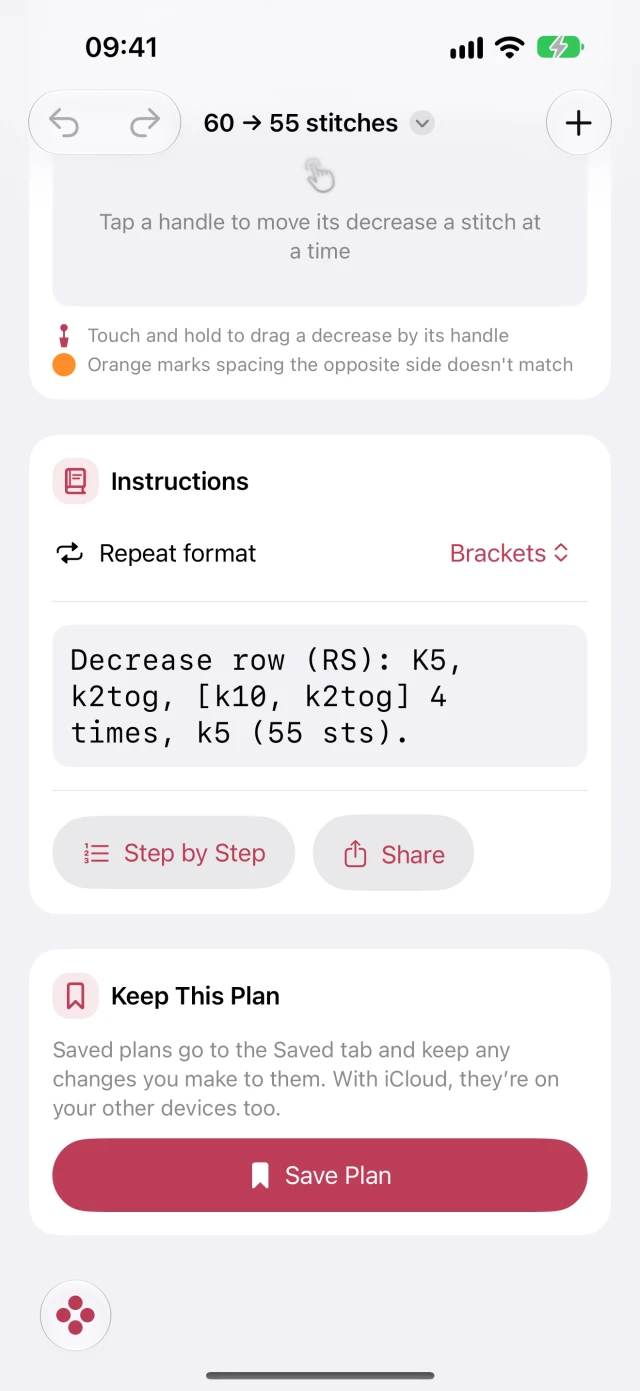
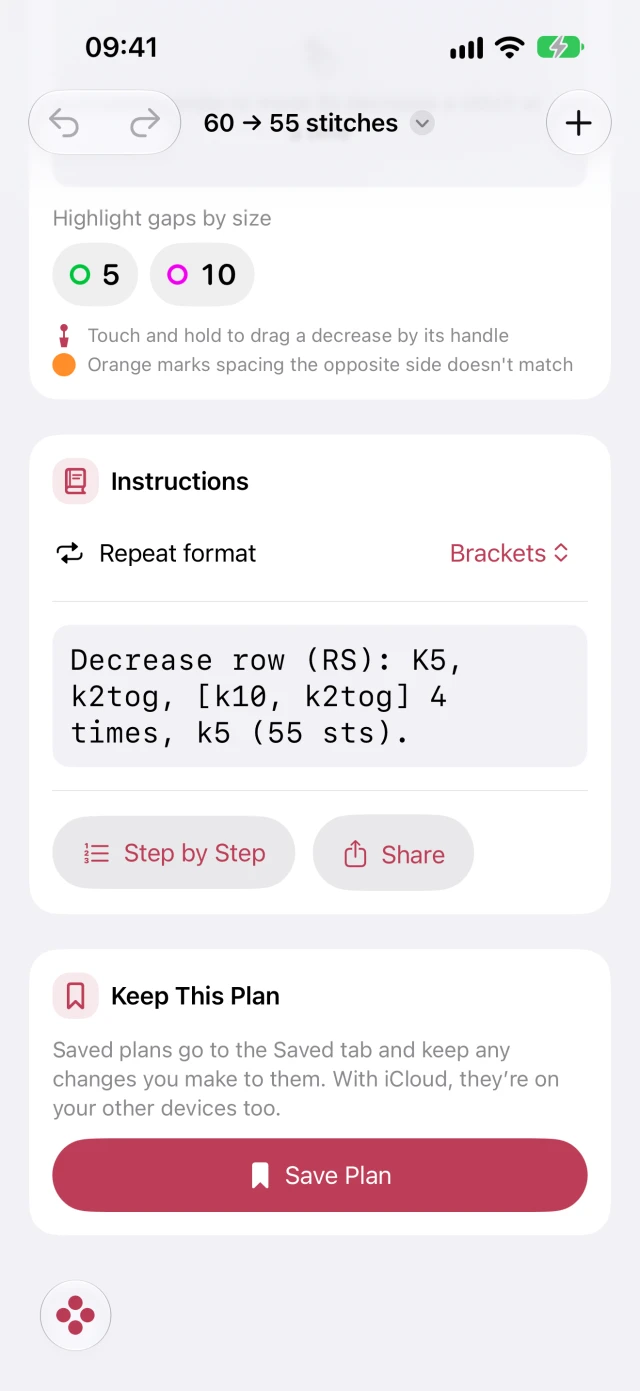
feat(site): describe gap-size highlights for stitches 27b8802
Stitches commit 27b8802 added a "Highlight gaps by size" row of pills
under Rebalance Spacing. Each pill puts a coloured dot on every gap of
that size. The "Shape it" copy and the rearrange alt text now mention
the pills. All six screenshots were re-encoded from the new raw
captures, because every capture had changed.

The commits since e9b2542 moved the cited ASO.md and
ReleaseVerification.md lines, so the README evidence table now points
at the new line numbers and cites the new pill views. The README also
records the 28 and 29 September content and site checks.

Changed region(s): [[0.0938, 0.0927, 0.8438, 0.2164], [0.3125, 0.9892, 0.6875, 1.0]]

diff --git a/docs/index.html b/docs/index.html
@@ -168,7 +168,9 @@
               ones that have to stay put, and rebalance to space the rest evenly
               around them. Orange shows where one side no longer mirrors the
               other. The written row changes to match, and you can undo
-              anything.
+              anything. To see where the 7s and the 8s fell, tap a gap size
+              under the diagram and every gap that size gets a dot in its own
+              colour.
             </p>
           </div>
           <div class="feature-shot">
@@ -177,7 +179,7 @@
                 src="/shot-rearrange.webp"
                 width="640"
                 height="1391"
-                alt="The same decrease row after the first decrease was stepped two stitches along. The panel under the diagram shows Decrease 1 with 7 stitches before and 8 after, with Lock and step buttons, orange marks the spacing that no longer mirrors, and a Rebalance Spacing button sits below."
+                alt="The same decrease row after the first decrease was stepped two stitches along. The panel under the diagram shows Decrease 1 with 7 stitches before and 8 after, with Lock and step buttons, orange marks the spacing that no longer mirrors, and below sit a Rebalance Spacing button and pills to highlight the gaps of 5, 7, 8 or 10 stitches."
                 loading="lazy"
                 decoding="async"
               />

diff --git a/index.html b/index.html
@@ -168,7 +168,9 @@
               ones that have to stay put, and rebalance to space the rest evenly
               around them. Orange shows where one side no longer mirrors the
               other. The written row changes to match, and you can undo
-              anything.
+              anything. To see where the 7s and the 8s fell, tap a gap size
+              under the diagram and every gap that size gets a dot in its own
+              colour.
             </p>
           </div>
           <div class="feature-shot">
@@ -177,7 +179,7 @@
                 src="/shot-rearrange.webp"
                 width="640"
                 height="1391"
-                alt="The same decrease row after the first decrease was stepped two stitches along. The panel under the diagram shows Decrease 1 with 7 stitches before and 8 after, with Lock and step buttons, orange marks the spacing that no longer mirrors, and a Rebalance Spacing button sits below."
+                alt="The same decrease row after the first decrease was stepped two stitches along. The panel under the diagram shows Decrease 1 with 7 stitches before and 8 after, with Lock and step buttons, orange marks the spacing that no longer mirrors, and below sit a Rebalance Spacing button and pills to highlight the gaps of 5, 7, 8 or 10 stitches."
                 loading="lazy"
                 decoding="async"
               />

diff --git a/README.md b/README.md
@@ -15,31 +15,32 @@ The social preview image is generated from the site icon and headline with `sh s
 
 ## Content checks
 
-The copy and privacy policy were checked against the Stitches app on 23 September 2026, and the copy again on 24, 25 and 27 September 2026. The 25 September check followed the app changes in `../Stitches` commits `5369bad` to `a3bdd7c`: gap dragging was removed, points can be locked and the rest rebalanced, spacing that doesn't mirror is marked orange, a selection panel replaced the counts drawn inside the ring, and saved plans open straight in the planner. The 27 September check followed commits `a4fa7d4` to `e9b2542`. None of them made a claim on the page wrong. They added "Shaping" and "Spacing" card headings, a result row under the counts, marks of one width and the "Step by Step" casing, which the new screenshots show. They also added VoiceOver announcements of count errors, now mentioned in the accessibility card. The changes moved the cited lines, so every row of the table below was re-read against `e9b2542`. The round diagram can be turned so the marker sits top, bottom, left or right, but that is a display preference only (`../Stitches/Stitches/Views/Planner/Track/PlanTrackView.swift:42-44`) and does not change the written round, so the page does not claim you can move the beginning of the round. Paths below are relative to the site directory.
+The copy and privacy policy were checked against the Stitches app on 23 September 2026, and the copy again on 24, 25, 27, 28 and 29 September 2026. The 25 September check followed the app changes in `../Stitches` commits `5369bad` to `a3bdd7c`: gap dragging was removed, points can be locked and the rest rebalanced, spacing that doesn't mirror is marked orange, a selection panel replaced the counts drawn inside the ring, and saved plans open straight in the planner. The 27 September check followed commits `a4fa7d4` to `e9b2542`. None of them made a claim on the page wrong. They added "Shaping" and "Spacing" card headings, a result row under the counts, marks of one width and the "Step by Step" casing, which the new screenshots show. They also added VoiceOver announcements of count errors, now mentioned in the accessibility card. The changes moved the cited lines, so every row of the table below was re-read against `e9b2542`. The 28 September check followed commits `9e6bc89` and `569db06`, which only reworded the App Store description and screenshot captions in `../Stitches/ASO.md` and `../Stitches/scripts/ScreenshotAutomation/`. No app source or raw capture changed, and the reworded description makes no claim the page contradicts. The rewrite moved the cited `ASO.md` lines, so those rows were updated. The 29 September check followed commits `85c2e38` to `27b8802`. The first three only changed `TODO.md`, the CloudKit release notes and tests. `27b8802` added a "Highlight gaps by size" row of pills under Rebalance Spacing: turning one on puts a coloured dot on every gap of that size, and the gap keeps its grey or orange fill. The "Shape it" copy now mentions it. The highlights are a way of looking at the plan and are not saved with it (`../Stitches/Stitches/Views/Planner/Track/PlanTrackView.swift:48-51`), so the page doesn't say they are. These commits moved the cited `ASO.md` and `ReleaseVerification.md` lines, so those rows were updated. Of the other cited files only `PlanTrackView.swift` changed, and its cited lines 42-44 hadn't moved. The round diagram can be turned so the marker sits top, bottom, left or right, but that is a display preference only (`../Stitches/Stitches/Views/Planner/Track/PlanTrackView.swift:42-44`) and does not change the written round, so the page does not claim you can move the beginning of the round. Paths below are relative to the site directory.
 
-| Page claim                                                                            | App evidence                                                                                                                                                                                                               |
-| ------------------------------------------------------------------------------------- | -------------------------------------------------------------------------------------------------------------------------------------------------------------------------------------------------------------------------- |
-| Increases and decreases, with three decrease and six increase stitches                | `../Stitches/Stitches/Models/ShapingTechnique.swift:13-35`, abbreviations at `:78-101`                                                                                                                                     |
-| M1 and yarn over sit between stitches; kfb and pfb consume one                        | `../Stitches/Stitches/Models/ShapingTechnique.swift:37-52`                                                                                                                                                                 |
-| Flat row and round support                                                            | `../Stitches/Stitches/Models/WorkingStyle.swift:3-24`                                                                                                                                                                      |
-| Half-width or equal row edge gaps                                                     | `../Stitches/Stitches/Models/EdgeSpacing.swift:3-40`                                                                                                                                                                       |
-| Moving a point changes only the two gaps beside it; gaps are selected, not moved      | `../Stitches/Stitches/Models/ShapingShift.swift:3-8,89-106`; `../Stitches/Stitches/Views/Planner/Track/TrackInteraction.swift:12-13,160-168`                                                                               |
-| Drag a handle; tap it and nudge it with the arrow buttons; tap a gap to see its count | `../Stitches/Stitches/Views/Planner/Track/TrackInstructionLegend.swift:51-64`; `../Stitches/Stitches/Models/TrackFocus.swift:1-8,18-25`; `../Stitches/Stitches/Views/Planner/Track/TrackSelectionPanel.swift:3-10,256-261` |
-| Lock a point in place and rebalance the rest around it, with undo                     | `../Stitches/Stitches/Models/ShapingLocks.swift:3-9`; `../Stitches/Stitches/Services/ShapingRebalancer.swift:3-8`; `../Stitches/Stitches/ViewModels/PlannerSession.swift:447-465`                                          |
-| Orange shows where one side no longer mirrors the other                               | `../Stitches/Stitches/Models/TrackBalance.swift:1-6`; legend at `../Stitches/Stitches/Views/Planner/Track/TrackInstructionLegend.swift:31`                                                                                 |
-| Purl techniques purl the plain stitches                                               | `../Stitches/Stitches/Models/ShapingTechnique.swift:67-76`                                                                                                                                                                 |
-| Equal edges suit an open front or a picked-up band                                    | `../Stitches/Stitches/Models/EdgeSpacing.swift:16-18`                                                                                                                                                                      |
-| A round is mirrored about its marker when the counts allow                            | `../Stitches/Stitches/Services/ShapingPlanner.swift:186-243` (otherwise mirrored half a stitch past the marker)                                                                                                            |
-| Example row "Decrease row (RS): K5, k2tog, [k10, k2tog] 4 times, k5 (55 sts)."        | `../Stitches/StitchesTests/PatternFormatterTests.swift:15`; shown in `public/shot-pattern.webp`                                                                                                                            |
-| Brackets, parentheses and asterisks                                                   | `../Stitches/Stitches/Models/RepeatNotationStyle.swift:3-31`                                                                                                                                                               |
-| Step-by-step instructions and sharing                                                 | `../Stitches/Stitches/Views/Planner/Pattern/PatternCard.swift:64-79`, `../Stitches/Stitches/Views/Planner/Pattern/InstructionStepsView.swift:3-31`                                                                         |
-| A saved plan opens straight in the planner and keeps every change                     | `../Stitches/Stitches/Views/Library/SavedPlansView.swift:44,104-111`; `../Stitches/Stitches/Views/Planner/PlannerScreen.swift:4-12`; locks saved at `../Stitches/Stitches/Models/SavedPlan.swift:57-61`                    |
-| Saved plans sync through the user's private iCloud database                           | `../Stitches/Stitches/Services/StoreBootstrap.swift:59,74-77`; app description at `../Stitches/ASO.md:267,273`                                                                                                             |
-| VoiceOver reads gaps and handles, flags imbalance, moves and locks handles            | `../Stitches/Stitches/Views/Planner/Track/Accessibility/TrackAccessibilityLayer.swift:3-7,30-56`; `../Stitches/Stitches/Views/Planner/Track/Accessibility/TrackShapingAccessibilityElement.swift:3-11,38-42,65-76`         |
-| VoiceOver says when the counts won't work                                             | `../Stitches/Stitches/Views/Planner/ValidationMessage.swift:38-56`                                                                                                                                                         |
-| No app account, analytics, ads, tracking or third-party SDKs                          | `../Stitches/Documentation/ReleaseVerification.md:171-172`; `../Stitches/ASO.md:272-273`                                                                                                                                   |
-| iOS 18 and iPhone/iPad support                                                        | `../Stitches/Stitches.xcodeproj/project.pbxproj:279,293,317,331`                                                                                                                                                           |
-| One-time purchase plan                                                                | `../Stitches/ASO.md:780`                                                                                                                                                                                                   |
+| Page claim                                                                            | App evidence                                                                                                                                                                                                                                                                |
+| ------------------------------------------------------------------------------------- | --------------------------------------------------------------------------------------------------------------------------------------------------------------------------------------------------------------------------------------------------------------------------- |
+| Increases and decreases, with three decrease and six increase stitches                | `../Stitches/Stitches/Models/ShapingTechnique.swift:13-35`, abbreviations at `:78-101`                                                                                                                                                                                      |
+| M1 and yarn over sit between stitches; kfb and pfb consume one                        | `../Stitches/Stitches/Models/ShapingTechnique.swift:37-52`                                                                                                                                                                                                                  |
+| Flat row and round support                                                            | `../Stitches/Stitches/Models/WorkingStyle.swift:3-24`                                                                                                                                                                                                                       |
+| Half-width or equal row edge gaps                                                     | `../Stitches/Stitches/Models/EdgeSpacing.swift:3-40`                                                                                                                                                                                                                        |
+| Moving a point changes only the two gaps beside it; gaps are selected, not moved      | `../Stitches/Stitches/Models/ShapingShift.swift:3-8,89-106`; `../Stitches/Stitches/Views/Planner/Track/TrackInteraction.swift:12-13,160-168`                                                                                                                                |
+| Drag a handle; tap it and nudge it with the arrow buttons; tap a gap to see its count | `../Stitches/Stitches/Views/Planner/Track/TrackInstructionLegend.swift:51-64`; `../Stitches/Stitches/Models/TrackFocus.swift:1-8,18-25`; `../Stitches/Stitches/Views/Planner/Track/TrackSelectionPanel.swift:3-10,256-261`                                                  |
+| Lock a point in place and rebalance the rest around it, with undo                     | `../Stitches/Stitches/Models/ShapingLocks.swift:3-9`; `../Stitches/Stitches/Services/ShapingRebalancer.swift:3-8`; `../Stitches/Stitches/ViewModels/PlannerSession.swift:447-465`                                                                                           |
+| Orange shows where one side no longer mirrors the other                               | `../Stitches/Stitches/Models/TrackBalance.swift:1-6`; legend at `../Stitches/Stitches/Views/Planner/Track/TrackInstructionLegend.swift:31`                                                                                                                                  |
+| A pill per gap size puts a coloured dot on every gap of that size                     | `../Stitches/Stitches/Views/Planner/Track/TrackGapSizePills.swift:3-8,18,36`; under Rebalance Spacing at `../Stitches/Stitches/Views/Planner/Track/PlanTrackView.swift:164-174`; dot at `../Stitches/Stitches/Views/Planner/Track/Diagram/TrackDiagram.swift:62-63,170-187` |
+| Purl techniques purl the plain stitches                                               | `../Stitches/Stitches/Models/ShapingTechnique.swift:67-76`                                                                                                                                                                                                                  |
+| Equal edges suit an open front or a picked-up band                                    | `../Stitches/Stitches/Models/EdgeSpacing.swift:16-18`                                                                                                                                                                                                                       |
+| A round is mirrored about its marker when the counts allow                            | `../Stitches/Stitches/Services/ShapingPlanner.swift:186-243` (otherwise mirrored half a stitch past the marker)                                                                                                                                                             |
+| Example row "Decrease row (RS): K5, k2tog, [k10, k2tog] 4 times, k5 (55 sts)."        | `../Stitches/StitchesTests/PatternFormatterTests.swift:15`; shown in `public/shot-pattern.webp`                                                                                                                                                                             |
+| Brackets, parentheses and asterisks                                                   | `../Stitches/Stitches/Models/RepeatNotationStyle.swift:3-31`                                                                                                                                                                                                                |
+| Step-by-step instructions and sharing                                                 | `../Stitches/Stitches/Views/Planner/Pattern/PatternCard.swift:64-79`, `../Stitches/Stitches/Views/Planner/Pattern/InstructionStepsView.swift:3-31`                                                                                                                          |
+| A saved plan opens straight in the planner and keeps every change                     | `../Stitches/Stitches/Views/Library/SavedPlansView.swift:44,104-111`; `../Stitches/Stitches/Views/Planner/PlannerScreen.swift:4-12`; locks saved at `../Stitches/Stitches/Models/SavedPlan.swift:57-61`                                                                     |
+| Saved plans sync through the user's private iCloud database                           | `../Stitches/Stitches/Services/StoreBootstrap.swift:59,74-77`; app description at `../Stitches/ASO.md:301,307`                                                                                                                                                              |
+| VoiceOver reads gaps and handles, flags imbalance, moves and locks handles            | `../Stitches/Stitches/Views/Planner/Track/Accessibility/TrackAccessibilityLayer.swift:3-7,30-56`; `../Stitches/Stitches/Views/Planner/Track/Accessibility/TrackShapingAccessibilityElement.swift:3-11,38-42,65-76`                                                          |
+| VoiceOver says when the counts won't work                                             | `../Stitches/Stitches/Views/Planner/ValidationMessage.swift:38-56`                                                                                                                                                                                                          |
+| No app account, analytics, ads, tracking or third-party SDKs                          | `../Stitches/Documentation/ReleaseVerification.md:221-222`; `../Stitches/ASO.md:306-307`                                                                                                                                                                                    |
+| iOS 18 and iPhone/iPad support                                                        | `../Stitches/Stitches.xcodeproj/project.pbxproj:279,293,317,331`                                                                                                                                                                                                            |
+| One-time purchase plan                                                                | `../Stitches/ASO.md:843`                                                                                                                                                                                                                                                    |
 
 Apple's [CloudKit private database documentation](https://developer.apple.com/documentation/cloudkit/ckcontainer/privateclouddatabase) confirms that user records are not visible in the developer portal. Apple also says [deleting an app does not remove its iCloud data](https://support.apple.com/guide/iphone/remove-or-delete-apps-iph248b543ca/ios), and describes how to [review and delete third-party app data in iCloud](https://support.apple.com/guide/icloud/keep-third-party-app-data-up-to-date-mm62d92d6b3e/icloud). These are the basis for the policy's iCloud and deletion wording.
 
@@ -51,9 +52,13 @@ On 25 September 2026, `shot-decreases`, `shot-rearrange`, `shot-increases`, `sho
 
 On 27 September 2026, all six screenshots were converted again from the raw captures committed in `../Stitches` at `e9b2542`. The captures now show the "Shaping" and "Spacing" card headings, the "After this row" result under the counts, marks of one width, and a pattern capture with the "Step by Step" button and the "Keep This Plan" card. The raw library capture changed as well, so `shot-library.webp` was re-encoded too. The same `cwebp` command was used. The decrease and pattern alt text now describe what those captures show.
 
+On 28 September 2026, the raw captures in `../Stitches` were unchanged since `e9b2542` (`569db06` recomposited only the captioned App Store frames in `screenshots/en-US/`). Re-encoding all six with the same `cwebp` command (libwebp 1.6.0) produced files byte-identical to those in `public/` and `docs/`, so they were kept.
+
+On 29 September 2026, all six screenshots were converted again from the raw captures committed in `../Stitches` at `27b8802`, with the same `cwebp` command (libwebp 1.6.0). Every raw capture had changed, so every WebP differed from the one in `public/`. The rearrange capture now scrolls further and shows the gap-size pills (5, 7, 8 and 10, all off) under Rebalance Spacing, and the pattern capture has the pills (5 and 10) at the top. The others differ only in the home indicator and the library's relative save times. The rearrange alt text now mentions the pills.
+
 ## Site verification
 
-On 23 September 2026, the page built successfully with Vite 8.2.2 (rebuilt with Vite 8.3.0 on 24 September 2026), matching `package-lock.json`. The built page's local asset paths and section links were checked, and `docs/CNAME` matched the intended domain. WebKit screenshots were inspected at 1440 × 900, 390 × 844 and 320 × 700 CSS pixels. At both phone widths, the document scroll width equaled the viewport width. On 25 September 2026, after the copy and screenshot update, the page was rebuilt with Vite 8.3.0 and checked again in WebKit at the same three sizes: every image loaded, and at every width the document scroll width equaled the viewport width. On 27 September 2026, after the screenshot and copy update for `e9b2542`, the page was rebuilt with Vite 8.3.0 and checked again in Playwright's WebKit at the same three sizes. No request failed, every image loaded, and at every width the document scroll width equaled the viewport width.
+On 23 September 2026, the page built successfully with Vite 8.2.2 (rebuilt with Vite 8.3.0 on 24 September 2026), matching `package-lock.json`. The built page's local asset paths and section links were checked, and `docs/CNAME` matched the intended domain. WebKit screenshots were inspected at 1440 × 900, 390 × 844 and 320 × 700 CSS pixels. At both phone widths, the document scroll width equaled the viewport width. On 25 September 2026, after the copy and screenshot update, the page was rebuilt with Vite 8.3.0 and checked again in WebKit at the same three sizes: every image loaded, and at every width the document scroll width equaled the viewport width. On 27 September 2026, after the screenshot and copy update for `e9b2542`, the page was rebuilt with Vite 8.3.0 and checked again in Playwright's WebKit at the same three sizes. No request failed, every image loaded, and at every width the document scroll width equaled the viewport width. On 29 September 2026, after the screenshot and copy update for `27b8802`, the page was rebuilt with Vite 8.3.0 and checked the same way at the same three sizes, with the same result. The "Shape it" section was inspected at 1440 and 320 pixels wide.
 
 ## Before launch
 
